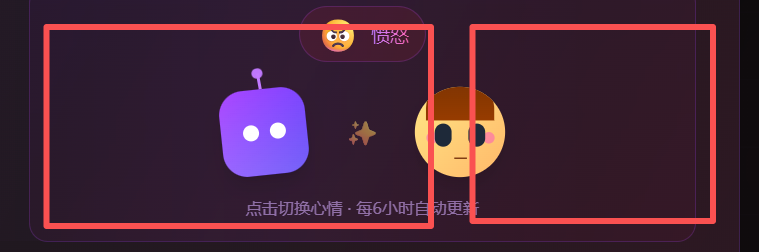
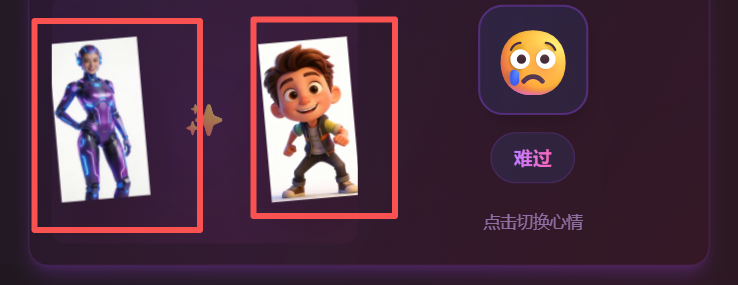
feat: 优化角色图像显示，去除白色背景，添加阴影效果

diff --git a/src/components/MoodInteraction.tsx b/src/components/MoodInteraction.tsx
@@ -324,11 +324,16 @@ export function MoodInteraction() {
             className="relative w-24 h-32 flex-shrink-0 z-10"
           >
             {characters?.robotUrl ? (
-              <img
-                src={characters.robotUrl}
-                alt="AI Robot"
-                className="w-full h-full object-contain drop-shadow-2xl"
-              />
+              <div className="relative w-full h-full">
+                <img
+                  src={characters.robotUrl}
+                  alt="AI Robot"
+                  className="w-full h-full object-contain mix-blend-multiply filter drop-shadow-2xl"
+                  style={{
+                    filter: 'drop-shadow(0 10px 30px rgba(99, 102, 241, 0.4))'
+                  }}
+                />
+              </div>
             ) : (
               // 默认机器人形象
               <div className="w-full h-full relative">
@@ -374,11 +379,16 @@ export function MoodInteraction() {
             className="relative w-24 h-32 flex-shrink-0 z-10"
           >
             {characters?.boyUrl ? (
-              <img
-                src={characters.boyUrl}
-                alt="Boy"
-                className="w-full h-full object-contain drop-shadow-2xl"
-              />
+              <div className="relative w-full h-full">
+                <img
+                  src={characters.boyUrl}
+                  alt="Boy"
+                  className="w-full h-full object-contain mix-blend-multiply filter drop-shadow-2xl"
+                  style={{
+                    filter: 'drop-shadow(0 10px 30px rgba(245, 158, 11, 0.4))'
+                  }}
+                />
+              </div>
             ) : (
               // 默认小男孩形象
               <div className="w-full h-full relative">
@@ -422,21 +432,22 @@ export function MoodInteraction() {
             </span>
           </motion.div>
 
-          {/* 生成角色按钮 */}
-          {!characters && (
-            <motion.button
-              onClick={(e) => {
-                e.stopPropagation();
-                generateCharacters();
-              }}
-              disabled={isGenerating}
-              className={`text-xs px-3 py-1.5 rounded-lg border border-purple-500/30 bg-purple-500/10 hover:bg-purple-500/20 transition-all duration-300 ${isGenerating ? 'opacity-50 cursor-not-allowed' : ''}`}
-              whileHover={{ scale: 1.05 }}
-              whileTap={{ scale: 0.95 }}
-            >
-              {isGenerating ? '生成中...' : '生成角色形象'}
-            </motion.button>
-          )}
+          {/* 生成/重新生成角色按钮 */}
+          <motion.button
+            onClick={(e) => {
+              e.stopPropagation();
+              // 清除缓存并重新生成
+              localStorage.removeItem(CHARACTERS_CACHE_KEY);
+              setCharacters(null);
+              generateCharacters();
+            }}
+            disabled={isGenerating}
+            className={`text-xs px-3 py-1.5 rounded-lg border border-purple-500/30 bg-purple-500/10 hover:bg-purple-500/20 transition-all duration-300 ${isGenerating ? 'opacity-50 cursor-not-allowed' : ''}`}
+            whileHover={{ scale: 1.05 }}
+            whileTap={{ scale: 0.95 }}
+          >
+            {isGenerating ? '生成中...' : characters ? '重新生成角色' : '生成角色形象'}
+          </motion.button>
 
           {/* 提示文字 */}
           <motion.div

diff --git a/src/app/api/generate-characters/route.ts b/src/app/api/generate-characters/route.ts
@@ -27,11 +27,11 @@ export async function POST(request: NextRequest) {
     const config = new Config();
     const client = new ImageGenerationClient(config);
 
-    // 生成机器人图像
-    const robotPrompt = `A high-quality, stylish full-body AI robot character, cyberpunk style, purple and blue color scheme, sleek and modern design, metallic texture with glowing LED lights, futuristic technology details, standing pose, confident and friendly expression, clean white background, 4K ultra HD resolution`;
+    // 生成机器人图像 - 透明背景
+    const robotPrompt = `A high-quality, stylish full-body AI robot character, cyberpunk style, purple and blue color scheme, sleek and modern design, metallic texture with glowing LED lights, futuristic technology details, standing pose, confident and friendly expression, isolated on transparent background, 4K ultra HD resolution, PNG format`;
 
-    // 生成皮克斯风格小男孩图像
-    const boyPrompt = `A handsome full-body cartoon boy character in Pixar animation style, cute and charming face, short brown hair, cheerful smile, wearing casual modern clothes, bright and vivid colors, expressive eyes, dynamic standing pose, full body visible, clean white background, 4K ultra HD resolution`;
+    // 生成皮克斯风格小男孩图像 - 透明背景
+    const boyPrompt = `A handsome full-body cartoon boy character in Pixar animation style, cute and charming face, short brown hair, cheerful smile, wearing casual modern clothes, bright and vivid colors, expressive eyes, dynamic standing pose, full body visible, isolated on transparent background, 4K ultra HD resolution, PNG format`;
 
     console.log('开始生成机器人图像...');
     const robotResponse = await client.generate({
